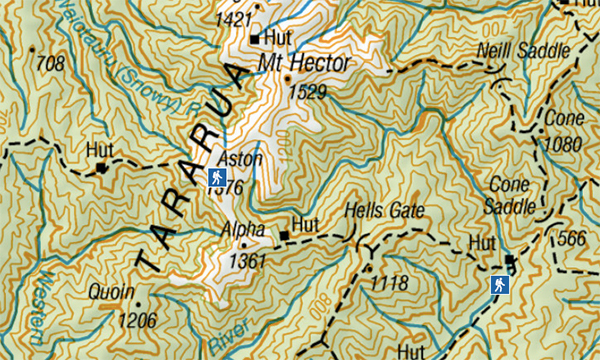
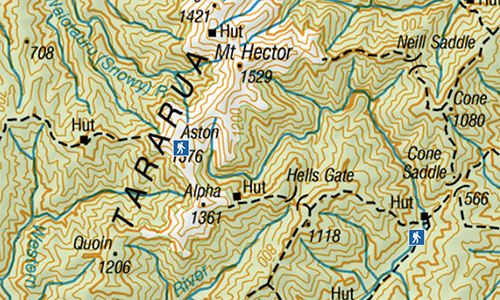
commit

diff --git a/register.html b/register.html
@@ -114,7 +114,57 @@
   </div></div>
 <!-- container for whole page-->
   <div class="container">
-<p>insert a form here</p>
+<br>
+    <div class="container">
+      <h2>Register to our email newsletter for more!</h2>
+      <form class="form-inline was-validated" action="/action_page.php">
+      <label for="email2" class="mb-2 mr-sm-2">Email:</label>
+      <input type="text" class="form-control mb-2 mr-sm-2" id="email2" placeholder="Enter email" name="email" required>
+      <div class="valid-feedback">Valid.</div>
+        <div class="invalid-feedback">Please fill out this field.</div>
+      <label for="pwd2" class="mb-2 mr-sm-2">Outdoors experience:</label>
+      <input type="text" class="form-control mb-2 mr-sm-2" id="exp" placeholder="Your level of experience" name="exp" required>
+      <div class="valid-feedback">Valid.</div>
+        <div class="invalid-feedback">Please fill out this field.</div>
+      <div class="form-check mb-2 mr-sm-2">
+        <label class="form-check-label">Not a robot.  </label>
+          <input type="checkbox" class="form-check-input" name="remember" required>
+          <div class="valid-feedback">Valid.</div>
+          <div class="invalid-feedback">Check this box to continue.</div>
+      </div>    
+      
+      <div class="container">
+      <!-- Button to Open the Modal -->
+      <button type="submit" class="btn btn-primary mb-2 data-toggle="modal" data-target="#myModal">Submit</button>
+      
+      <!-- The Modal -->
+      <div class="modal" id="myModal">
+      <div class="modal-dialog">
+        <div class="modal-content">
+        
+          <!-- Modal Header -->
+          <div class="modal-header">
+            <h4 class="modal-title">Success</h4>
+            <button type="button" class="close" data-dismiss="modal">&times;</button>
+          </div>
+          
+          <!-- Modal body -->
+          <div class="modal-body">
+            You have successfully registered.
+          </div>
+          
+          <!-- Modal footer -->
+          <div class="modal-footer">
+            <button type="button" class="btn btn-danger" data-dismiss="modal">Close</button>
+          </div>
+          
+        </div>
+      </div>
+      </div>
+      
+      </div>
+      </form>
+      </div>
 </div>
 </body>
 <!-- Footer -->
@@ -128,9 +178,6 @@
   <!-- Copyright -->
 </footer>
 <!-- Footer -->
-
-
-
 
 </body>
 </html>

diff --git a/findatrack.html b/findatrack.html
@@ -123,13 +123,19 @@
           <div class="mb-4">
             
               <!-- Gradient divider -->
-              <hr data-content="Explore tracks in wider Wellington" class="hr-text">
+              <hr data-content="Explore Wellington tracks" class="hr-text">
           </div>
          
       </div>
   </div>
-
-  <img class="img-fluid" src="images/southern_crossing_resized.jpg" alt="Map of Southern Crossing" >
+  <div class = "row" > 
+    <div class = "col-sm-4"" style="padding: 0.5rem;"">
+      <h1>Tararua Ranges Southern Crossing</h1>
+  <img class="img-fluid" src="images/southern_crossing_resized_new.jpg" alt="Map of Southern Crossing" ></div>
+  <div class = "col-sm-4"" style="padding: 0.5rem;"">
+    <h1>Mt Holdsworth Jumbo Circuit</h1>
+  <img class="img-fluid" src="images/map2_new.jpg" alt="Map of Southern Crossing" ></div>
+  </div>
     </div>
 </body>
 <!-- Footer -->
